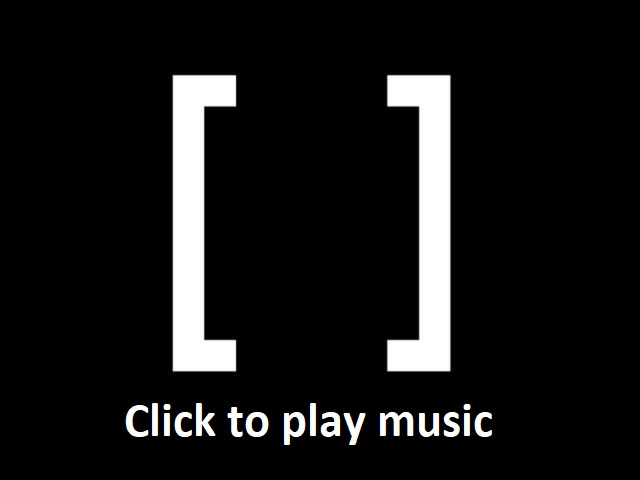
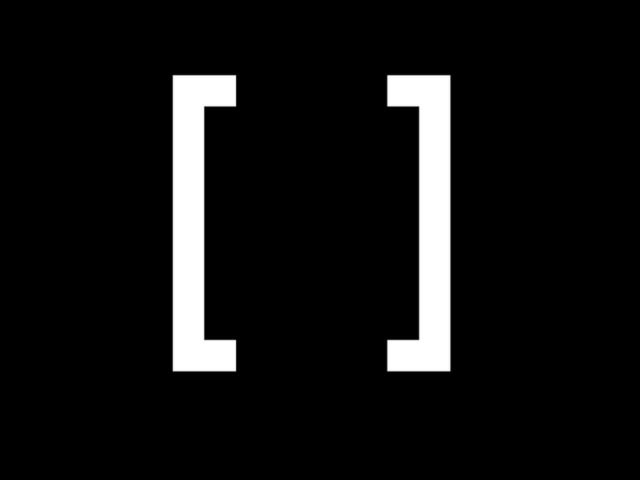
add tunes

Changed region(s): [[0.1875, 0.8438, 0.7812, 0.9375]]

diff --git a/index.html b/index.html
@@ -32,7 +32,7 @@
   <!--<Sound gain="0.4" id="radio" js_id="radio_sound" pos="2 1 9" rect="-100 -100 100 100" scale="1.5 1.5 1.5"/>-->
 	
   <Object collision_id="plane" id="plane" js_id="mainvideo" lighting="false" pos="12.5 2.2 3.46" scale="4 2.3 1" video_id="stream" xdir="1 -0.000305 0.000001" ydir="0.000305 0.999848 -0.01745" zdir="0.000004 0.01745 0.999848"/>
-  <Object collision_id="plane" id="plane" image_id="nsl-logo" websurface_id="music" js_id="A-12-1515907626" lighting="false" pos="0.2 1.3 8.679999" scale="1.4 0.9 1" xdir="-1 -0.000004 -0.000002" ydir="-0.000004 1 -0" zdir="0.000002 0 -1"/>
+  <Object collision_id="plane" id="plane" image_id="nsl-logo2" websurface_id="music" js_id="A-12-1515907626" lighting="false" pos="0.2 1.3 8.679999" scale="1.4 0.9 1" xdir="-1 -0.000004 -0.000002" ydir="-0.000004 1 -0" zdir="0.000002 0 -1"/>
   <Object collision_id="plane" id="plane" js_id="A-13-1515907694" lighting="false" pos="0.48 1.4 9.8" scale="1.4 0.9 1" image_id="computers" />
   <Object collision_id="plane" id="plane" image_id="polybius" js_id="A-15-1515907744" lighting="false" pos="-0.71 2.01 15.719999" scale="0.95 0.7 1" xdir="0.034901 0.000001 -0.999391" ydir="-0.087103 0.996195 -0.003041" zdir="0.995588 0.087156 0.034768"/>
   <Object collision_id="plane" id="plane" js_id="A-16-1515907821" lighting="false" pos="14.78 2.08 19.629999" scale="1.76 1.281 0.999" websurface_id="meetup" image_id="meetup-thumb" xdir="-0.999716 0.016836 -0.016841" ydir="0.01622 0.999217 0.03609" zdir="0.017435 0.035807 -0.999207"/>
